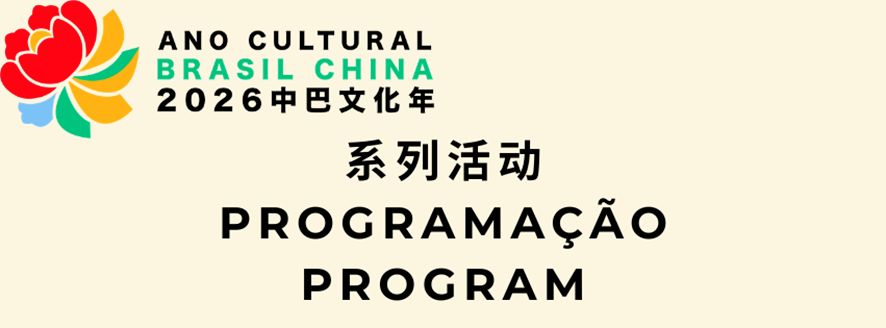
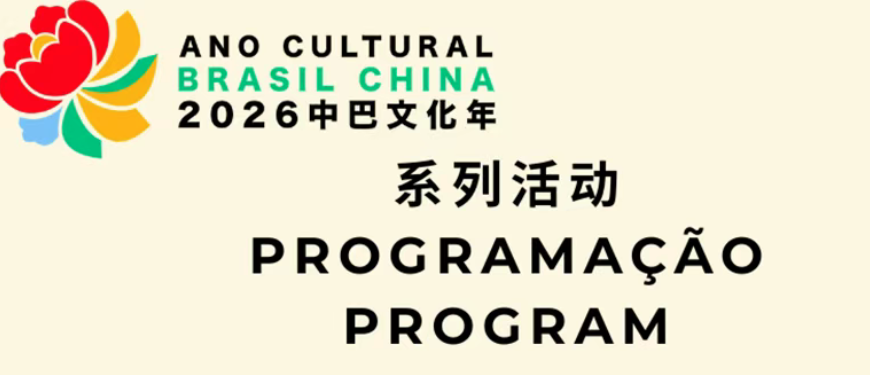
Update src/content/news/programacao-do-ano-cultural-brasil-china-2026

diff --git a/src/content/news/programacao-do-ano-cultural-brasil-china-2026.md b/src/content/news/programacao-do-ano-cultural-brasil-china-2026.md
@@ -9,7 +9,7 @@ description: >-
   A agenda envolve múltiplas expressões artísticas e culturais e contempla áreas
   como artes cênicas, artes visuais, música, patrimônio cultural imaterial,
   audiovisual, diversidade cultural, juventude, formação, turismo e inovação:
-thumbnail: blob:https://conselhobj.vercel.app/de4a0688-f27f-45e0-bf8d-15e11cd92dc1
+thumbnail: blob:https://conselhobj.vercel.app/7298065e-d533-47f0-8c81-b867742aa535
 externalLink: https://mp.weixin.qq.com/s/8D4MhMiD9hN2gfzCkXr1qQ?scene=1
 tags: []
 ---
